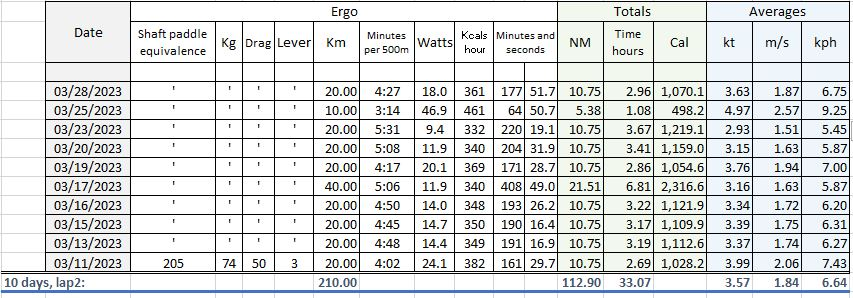
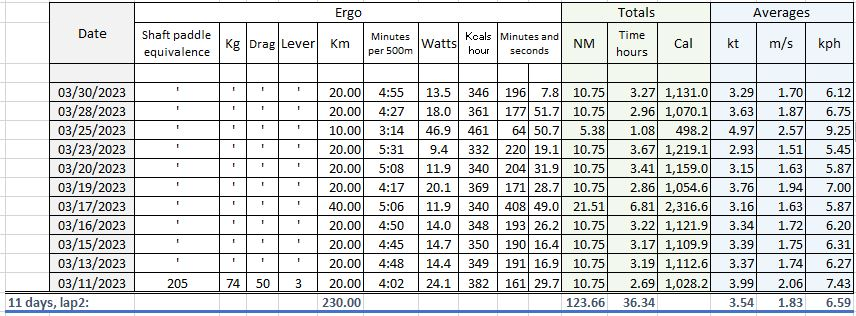
updates

diff --git a/content/dry-run/log.md b/content/dry-run/log.md
@@ -6,11 +6,11 @@ draft: false
 
 > This is not the actual trip. This is just training mapped on chart to have an idea of what the real thing might be.
 
-> March 28, 2023, lap2
+> March 30, 2023, lap2
 
-![March 28](/img/mar28.JPG)
+![March 30](/img/mar30.JPG)
 {{< center >}}
-10 days on ergo, 113 nautical miles, 210 km, lap2
+11 days on ergo, 123.6 nautical miles, 230 km, lap2
 {{< /center >}}
 
 ![Stats](/img/Stats2.JPG)
